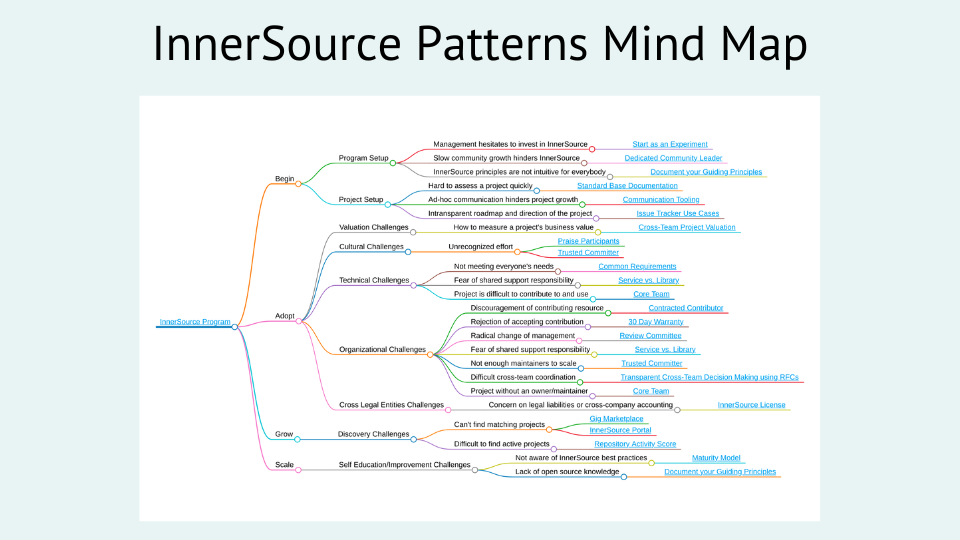
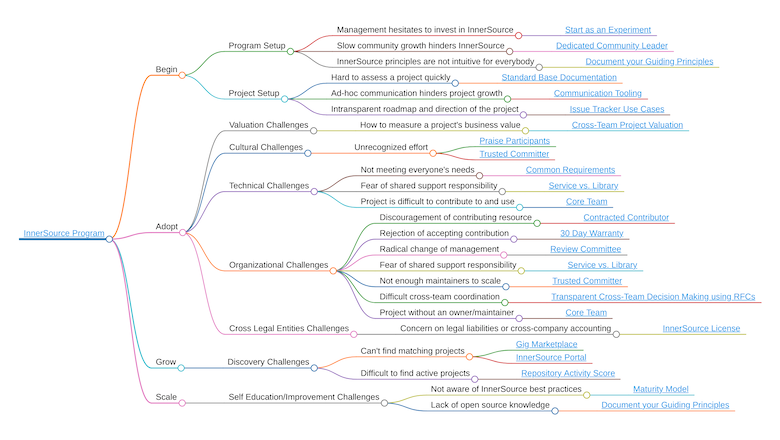
Updates to new pattern page: - improve 2 images and reduze all image sizes - various text tweets - fixing one link - changing text so that boxes in row 1 have the same height

diff --git a/content/learn/patterns.md b/content/learn/patterns.md
@@ -1,6 +1,6 @@
 ---
 title: "InnerSource Patterns"
-subtitle: "Best practices codified in a specific format easy to understand and reuse."
+subtitle: "InnerSource best practices codified in a specific format easy to understand and reuse."
 type: "community"
 image: "images/learn/patterns.png"
 weight: 1
@@ -9,7 +9,7 @@ weight: 1
   <div class="container">
     <div class="row align-items-center">
       <div class="col-md-6 order-2 order-md-2">
-        <p>At InnerSource Commons we provide a forum for the community to share their experience and learn from each other in the form of InnerSource Patterns. 
+        <p>The InnerSource Commons provides a forum for the community to share their experience and learn from each other in the form of InnerSource Patterns.
         </p>
         <p class="mt-4"><b>An InnerSource Pattern</b> - That’s what we call InnerSource best practices codified in a specific format to make it easy to understand, evaluate, and apply them in your context.  </p>
       </div>
@@ -19,38 +19,38 @@ weight: 1
   </div>
 </section>
 
-<h2 style="text-align: center;"> The InnerSource Patterns Working Group is providing the following services to our community</h2>
+<h2 style="text-align: center;">The InnerSource Patterns Working Group is providing the following services to our community</h2>
 
 <section class="section bg-light">
   <div class="container">
     <div class="row justify-content-center">
       <div class="col-md-6 col-sm-6 mb-4">
         <div class="feature-card text-left">
-          <img src="/images/events/meetup-2021-10-05.jpg" alt="InnerSource Patterns Community call">
-          <h3 class="mb-2">Facilitating the identification of patterns in various contexts such as our Community calls and through community discussions on <a href="https://innersourcecommons.slack.com/archives/C2EFRTS6A">Slack</a>.</h3>
+          <a href="https://innersourcecommons.slack.com/archives/C2EFRTS6A"><img src="/images/events/meetup-2021-10-05.jpg" alt="InnerSource Patterns Community Calls"></a>
+          <h3 class="mb-2">Facilitating the identification of patterns in various contexts such as our <a href="/events/">Community Calls</a> and through discussions on <a href="https://innersourcecommons.slack.com/archives/C2EFRTS6A">Slack</a>.</h3>
         </div>
       </div>
       <div class="col-md-6 col-sm-6 mb-4">
         <div class="feature-card text-left">
-          <img src="/images/learn/patterns/maturing_patterns.png" alt="Mature InnerSource Patterns">
-          <h3 class="mb-2">Encouraging and facilitating community members to <a href="https://github.com/InnerSourceCommons/InnerSourcePatterns/issues">mature patterns</a> by reviewing them and providing examples of instances where the pattern has been used.</h3>
+          <a href="https://github.com/InnerSourceCommons/InnerSourcePatterns/issues"><img src="/images/learn/patterns/maturing_patterns.png" alt="Mature InnerSource Patterns"></a>
+          <h3 class="mb-2">Helping the Community to <a href="https://github.com/InnerSourceCommons/InnerSourcePatterns/issues">mature patterns</a> by reviewing them and providing examples of instances where the pattern has been used.</h3>
         </div>
       </div>
       <div class="col-md-6 col-sm-6 mb-4">
         <div class="feature-card text-left">
-          <img src="/images/learn/patterns/github_conversation.png" alt="GitHub Converstaion">
+          <a href="https://github.com/InnerSourceCommons/InnerSourcePatterns"><img src="/images/learn/patterns/github_conversation.png" alt="GitHub Conversation"></a>
           <h3 class="mb-2">Providing a space for companies to collaborate on patterns in <a href="https://github.com/InnerSourceCommons/InnerSourcePatterns">GitHub</a>.</h3>
         </div>
       </div>
       <div class="col-md-6 col-sm-6 mb-4">
         <div class="feature-card text-left">
-          <img src="/images/learn/patterns/patterns_book.png" alt="InnerSource Patterns Book">
-          <h3 class="mb-2">Publishing the most mature patterns in the <a href="http://localhost:1313/learn/books/innersource-patterns/">InnerSource Patterns book</a>.</h3>
+          <a href="https://patterns.innersourcecommons.org"><img src="/images/learn/patterns/patterns_book.jpg" alt="InnerSource Patterns Book"></a>
+          <h3 class="mb-2">Publishing the most mature patterns in the <a href="https://patterns.innersourcecommons.org">InnerSource Patterns book</a>.</h3>
         </div>
       </div>
       <div class="col-md-6 col-sm-6 mb-4">
         <div class="feature-card text-left">
-          <img src="/images/learn/patterns/patterns_mind_map.png" alt="Innersource Patterns Mind Map">
+          <a href="https://patterns.innersourcecommons.org/explore-patterns"><img src="/images/learn/patterns/patterns_mind_map.png" alt="InnerSource Patterns Mind Map"></a>
           <h3 class="mb-2">Providing discoverability tools such as the <a href="https://patterns.innersourcecommons.org/explore-patterns">InnerSource Patterns Mind Map</a>.</h3>
         </div>
       </div>
@@ -60,4 +60,5 @@ weight: 1
 
 
 ## How to Get Involved
-If you are using InnerSource in your company already and want to contribute to the efforts outlined above by sharing your experiences or introducing new patterns, we would love to <a href="https://patterns.innersourcecommons.org/contribute"> welcome your contributions to the book</a> and to our Slack conversations in the <a href="https://innersourcecommons.slack.com/archives/C2EFRTS6A">InnerSource Patterns channel</a>. 
+
+If you are using InnerSource in your company already and want to contribute to the efforts outlined above by sharing your experiences or introducing new patterns, we would love to <a href="https://patterns.innersourcecommons.org/contribute"> welcome your contributions to the book</a> and to our Slack conversations in the <a href="https://innersourcecommons.slack.com/archives/C2EFRTS6A">#innersource-patterns channel</a>.
